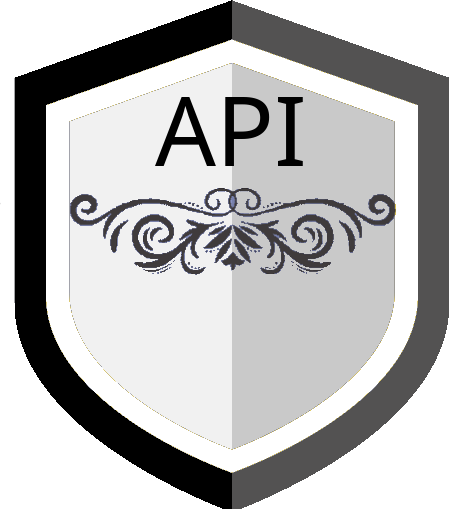
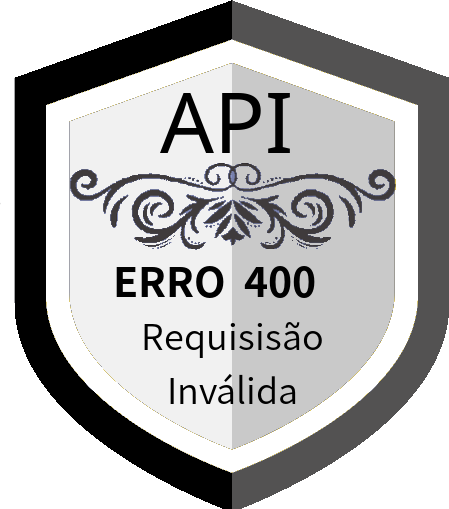
Ajustes nos escudos (graficos)

Changed region(s): [[0.1559, 0.1768, 0.9042, 0.5894], [0.3118, 0.6189, 0.7171, 0.7073], [0.3742, 0.7367, 0.686, 0.7957]]

diff --git a/errors/recebe-erros.php b/errors/recebe-erros.php
@@ -3,7 +3,7 @@
 <head>
     <meta charset="UTF-8">
     <meta name="viewport"
-          content="width=device-width, user-scalable=no, initial-scale=1.0, maximum-scale=1.0, minimum-scale=1.0">
+          content="width=device-width, user-scalable=yes, initial-scale=0.5, maximum-scale=1.0, minimum-scale=0.5">
     <meta http-equiv="X-UA-Compatible" content="ie=edge">
     <title>Error</title>
 </head>
@@ -16,11 +16,11 @@ http_response_code($recebe);// Envia os dados no cabeçalho da resposta, suporte
 
 //echo "<h1 style='text-align:center'>Erro $recebe</h1>";
 
-//mostra o meme relacionado ao erro
+//mostra o escudo relacionado ao erro
 //echo "<img src=\"https://jul10l1r4.github.io/HTTP_-_Resposta/img/$recebe\">";
 echo "
 <div style=\"text-align: center;\">
-    <img src=\"/meme/errors/escudo$recebe.png\">
+    <img src=\"/errors/escudo$recebe.png\">
 </div>
 ";
 ?>

diff --git a/README.md b/README.md
@@ -1,2 +1,2 @@
 # Errors
-
+Tratamento de Erros da páginas PHP. Personalização do Projeto Original de Julio Lira: https://notabug.org/Jul10l1r4/Exemplos-API-http-memes
